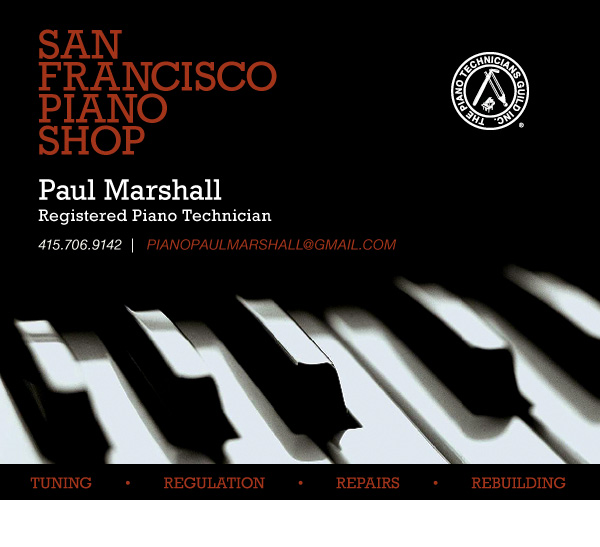
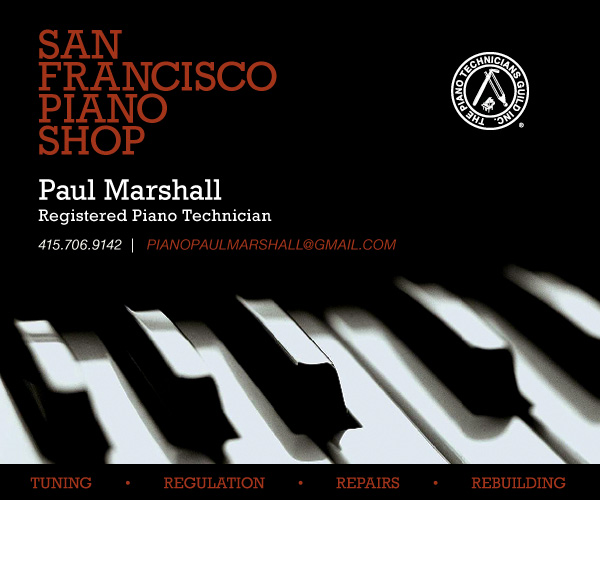
update visual spacing between ad creative and underwriter label

diff --git a/prototype.iphone.home-preroll.framer/framer/framer.generated.js b/prototype.iphone.home-preroll.framer/framer/framer.generated.js
@@ -468,7 +468,7 @@ window.__imported__["home/layers.json.js"] = [
             "y" : 168,
             "x" : 20,
             "width" : 600,
-            "height" : 547
+            "height" : 561
           }
         },
         "imageType" : "png",
@@ -476,7 +476,7 @@ window.__imported__["home/layers.json.js"] = [
           "y" : 168,
           "x" : 20,
           "width" : 600,
-          "height" : 547
+          "height" : 561
         },
         "name" : "AdUnit"
       },

diff --git a/prototype.iphone.home-preroll.framer/imported/home/layers.json.js b/prototype.iphone.home-preroll.framer/imported/home/layers.json.js
@@ -364,7 +364,7 @@ window.__imported__["home/layers.json.js"] = [
             "y" : 168,
             "x" : 20,
             "width" : 600,
-            "height" : 547
+            "height" : 561
           }
         },
         "imageType" : "png",
@@ -372,7 +372,7 @@ window.__imported__["home/layers.json.js"] = [
           "y" : 168,
           "x" : 20,
           "width" : 600,
-          "height" : 547
+          "height" : 561
         },
         "name" : "AdUnit"
       },
